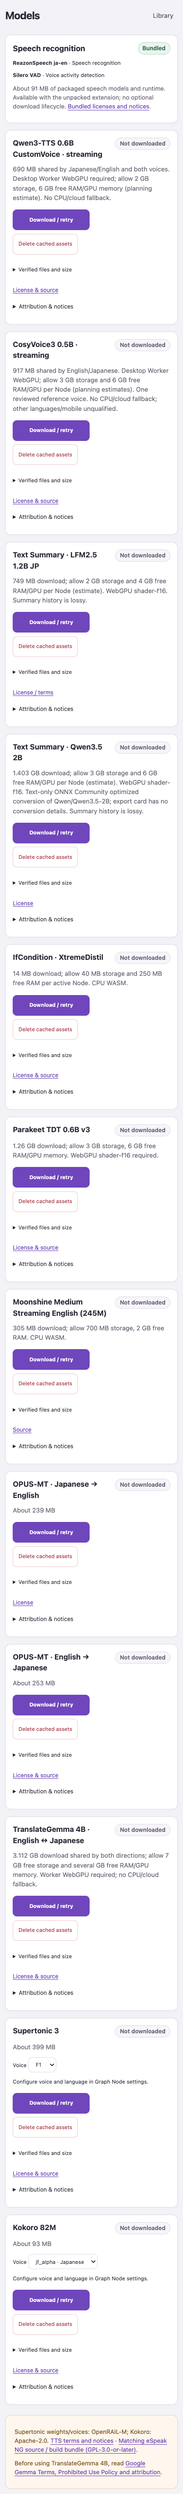
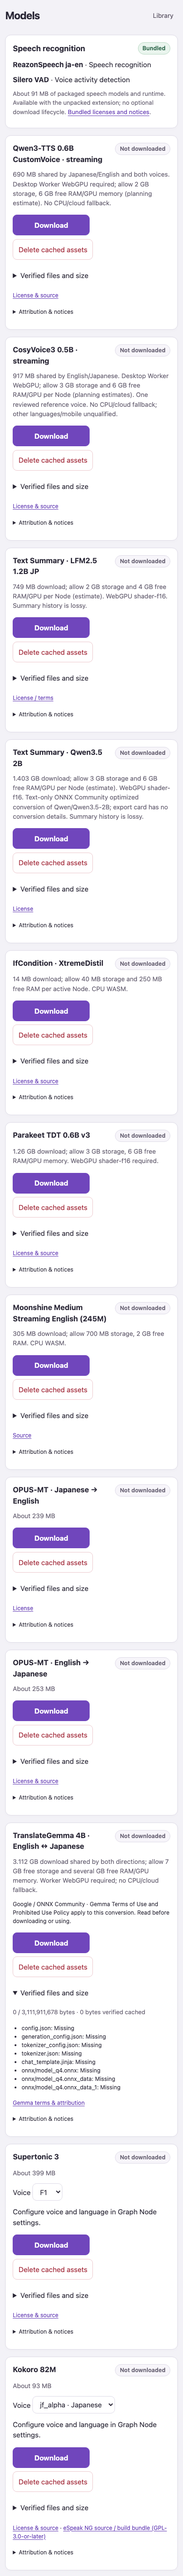
fix: preserve model card legal links after upstream updates (#332)

diff --git a/tests/browser/shared-ui.spec.js b/tests/browser/shared-ui.spec.js
@@ -62,8 +62,14 @@ test('Models wraps real manifests, licenses, expanded file paths and controls at
     await expect(notices.locator('p')).toContainText(notice);
     await summary.press('Space');
     await expect(notices.locator('p')).toBeHidden();
-    // Native Tab navigation reaches the link and then its separate disclosure.
-    await link.focus(); await page.keyboard.press(browserName === 'webkit' ? 'Alt+Tab' : 'Tab');
+    // Native Tab navigation reaches every legal link and then its disclosure.
+    const links = await card.locator('.model-license a').all();
+    await links[0].focus();
+    for (let i = 1; i < links.length; i++) {
+      await page.keyboard.press(browserName === 'webkit' ? 'Alt+Tab' : 'Tab');
+      await expect(links[i]).toBeFocused();
+    }
+    await page.keyboard.press(browserName === 'webkit' ? 'Alt+Tab' : 'Tab');
     await expect(summary).toBeFocused();
     await expect(card.locator(':scope > details')).toHaveCSS('border-top-width', '0px');
     expect(await card.evaluate(el => parseFloat(getComputedStyle(el).borderTopWidth))).toBeGreaterThan(0);
@@ -82,6 +88,7 @@ test('Models wraps real manifests, licenses, expanded file paths and controls at
   await expect(gemma).toContainText('Google / ONNX Community · Gemma Terms');
   await expect(gemma.locator(':scope > p.model-license')).toBeVisible();
   await expect(gemma.locator(':scope > p.model-license')).toContainText('Gemma Terms of Use and Prohibited Use Policy apply to this conversion. Read before downloading or using.');
+  expect(await gemma.evaluate(card => !!(card.querySelector(':scope > p.model-license').compareDocumentPosition(card.querySelector('.actions')) & Node.DOCUMENT_POSITION_FOLLOWING))).toBe(true);
   await expect(page.locator('footer')).toHaveCount(0);
   await expect(page.locator('a[href="../web/licenses/gemma-notices.txt"]')).toHaveCount(1);
   const source = page.locator('#kokoro').getByRole('link', { name: 'eSpeak NG source / build bundle (GPL-3.0-or-later)', exact: true });

diff --git a/extension/model-cache.js b/extension/model-cache.js
@@ -66,17 +66,17 @@ class ModelCard {
     link.setAttribute('aria-label', `${linkLabel} for ${definition.title}`);
     const notices = el('details');
     notices.append(el('summary', 'Attribution & notices'), el('p', definition.terms));
-    const license = el('div'); license.className = 'model-license'; license.append(link, notices);
+    const license = el('div'); license.className = 'model-license'; license.append(link);
     for (const extra of definition.links || []) {
       const anchor = el('a', extra.label); anchor.href = extra.url;
       license.append(' · ', anchor);
     }
+    license.append(notices);
     // Keep the Gemma usage warning visible before the download controls.
     if (definition.id === 'translategemma') {
       const notice = el('p', definition.terms); notice.className = 'model-license';
       root.append(notice);
     }
-
     root.append(this.error, this.progress, controls, details, license);
     document.getElementById('models').append(root); this.buttons(); void this.inspect();
   }

diff --git a/tests/extension/shared-ui.spec.js b/tests/extension/shared-ui.spec.js
@@ -144,7 +144,9 @@ test('Models keeps real cache progress, cancellation, retry, error, deletion and
   await expect(status).toHaveText('Not downloaded');
   await expect(page.locator('#persist, #persistence, main > details')).toHaveCount(0);
   await expect(page.locator('#kokoro a[href="../web/licenses/tts-notices.txt"]')).toBeVisible();
-  await expect(page.locator('#translategemma').getByRole('link', { name: 'Gemma terms & attribution', exact: true })).toBeVisible();
+  await expect(page.locator('#translategemma').getByRole('link', { name: /^Gemma terms & attribution for / })).toBeVisible();
+  await expect(page.locator('#translategemma > p.model-license')).toBeVisible();
+  await expect(page.locator('#kokoro').getByRole('link', { name: 'eSpeak NG source / build bundle (GPL-3.0-or-later)', exact: true })).toBeVisible();
   await expect(page.locator('footer')).toHaveCount(0);
   await page.reload();
   await page.keyboard.press('Tab');
